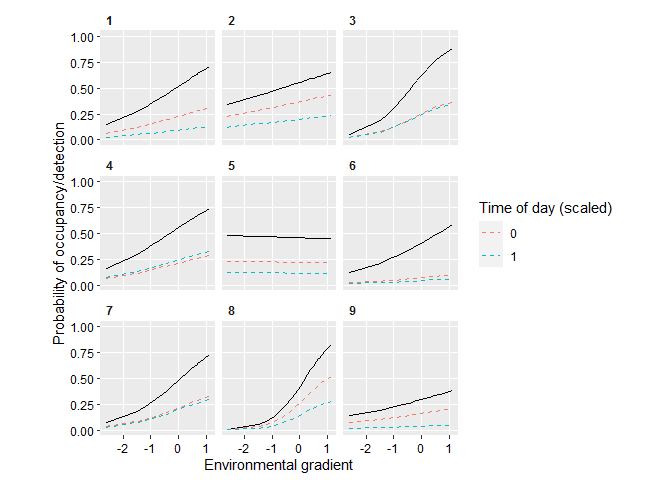
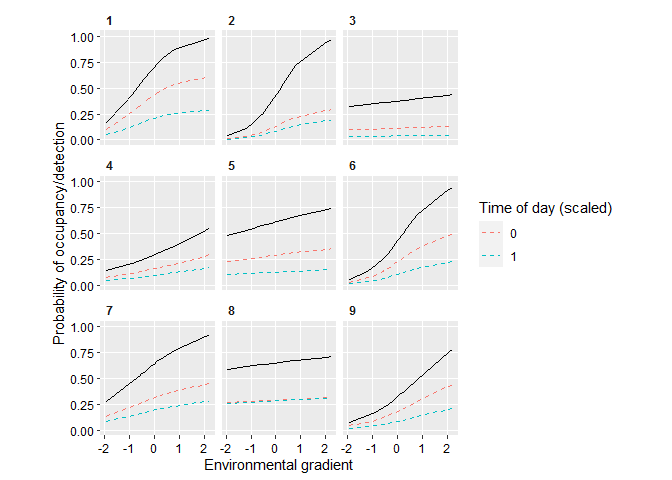
tweaked figs

diff --git a/README.md b/README.md
@@ -164,12 +164,12 @@ head(det_sim_wide)
 
 ``` 
   i k 1 2 3 4
-1 1 1 1 1 0 0
-2 1 2 0 1 0 0
-3 1 3 0 0 0 0
-4 1 4 0 1 1 0
-5 1 5 0 0 0 0
-6 1 6 0 0 0 1
+1 1 1 0 1 0 0
+2 1 2 0 0 0 0
+3 1 3 0 0 1 0
+4 1 4 0 0 0 0
+5 1 5 0 0 1 1
+6 1 6 0 1 0 0
 ```
 
 We have two columns that identify the species:point combination,
@@ -187,20 +187,20 @@ head(time_sim_wide)
 ```
 
 ``` 
-  i k         1          2         3         4
-1 1 1 0.1735594 0.91190551 0.7294002 0.3744485
-2 1 2 0.1763252 0.01127935 0.9397493 0.5135653
-3 1 3 0.3302782 0.95676857 0.9206677 0.5524363
-4 1 4 0.5800233 0.69096319 0.6014498 0.3166696
-5 1 5 0.9599382 0.45958304 0.5889978 0.3939340
-6 1 6 0.3701675 0.55556399 0.4113235 0.7095843
+  i k         1         2         3          4
+1 1 1 0.6718841 0.5165038 0.8644191 0.09028463
+2 1 2 0.2200007 0.9218696 0.6630422 0.28670152
+3 1 3 0.1859771 0.8414575 0.4018805 0.14375275
+4 1 4 0.8825094 0.2849294 0.4753757 0.35831950
+5 1 5 0.6178907 0.8492360 0.6639175 0.89314053
+6 1 6 0.8250160 0.3381398 0.9950988 0.11576463
 ```
 
 ``` r
 head(env_var)
 ```
 
-    [1]  0.9665972  0.0883871  0.1070767 -0.2684812  1.6261510  0.4312677
+    [1] -0.5701107 -0.8914825  0.3680577  2.0535598 -0.3794084  0.2064427
 
 Finally, an environmental variable, that just varies between points.
 
